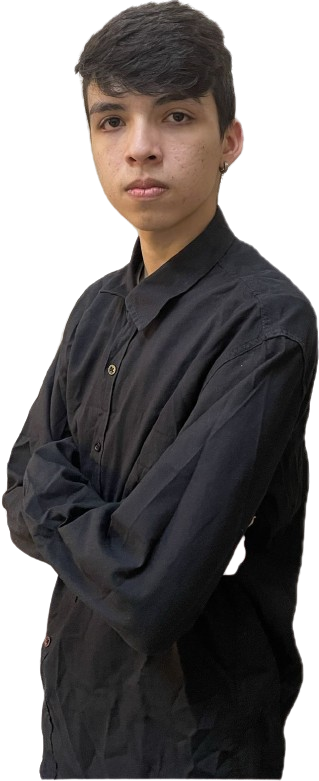
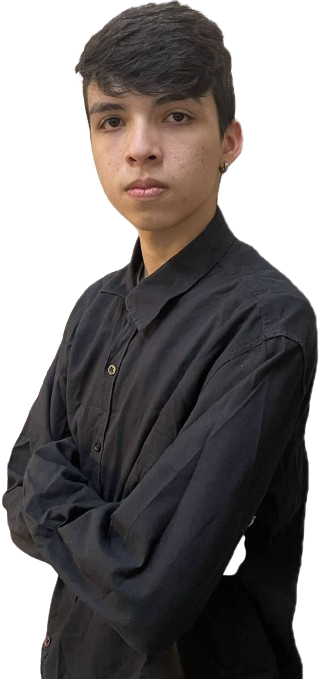
25.06.2024

diff --git a/conves/server/src/public/css/sobre.css b/conves/server/src/public/css/sobre.css
@@ -60,12 +60,34 @@
     background-color: #ff4646;
     border-radius: 20px 20px 0 0;
     box-shadow:inset 0 10px 20px rgba(0, 0, 0, 0.200);
+    display: flex;
+    justify-content: center;
+    
 }
+
+.quadrado-vermelho img{
+    transition: linear .3s;
+    filter: drop-shadow(1px 1px 10px rgba(0, 0, 0, 0.500));
+}
+
+.quadrado-vermelho img:hover{
+    filter: drop-shadow(1px 1px 10px #eee);
+    transition: linear .3s ;
+}
+
+.matheus {
+    margin: 20px;
+}
+
+.miguel {
+    margin-left: 30px;
+}
+
 
 .baixo svg {
     width: 60%;
     position: absolute;
-    bottom: 30px;
+    bottom: 60px;
     filter: drop-shadow(0 20px 20px rgba(0, 0, 0, 0.100));
 }
 
